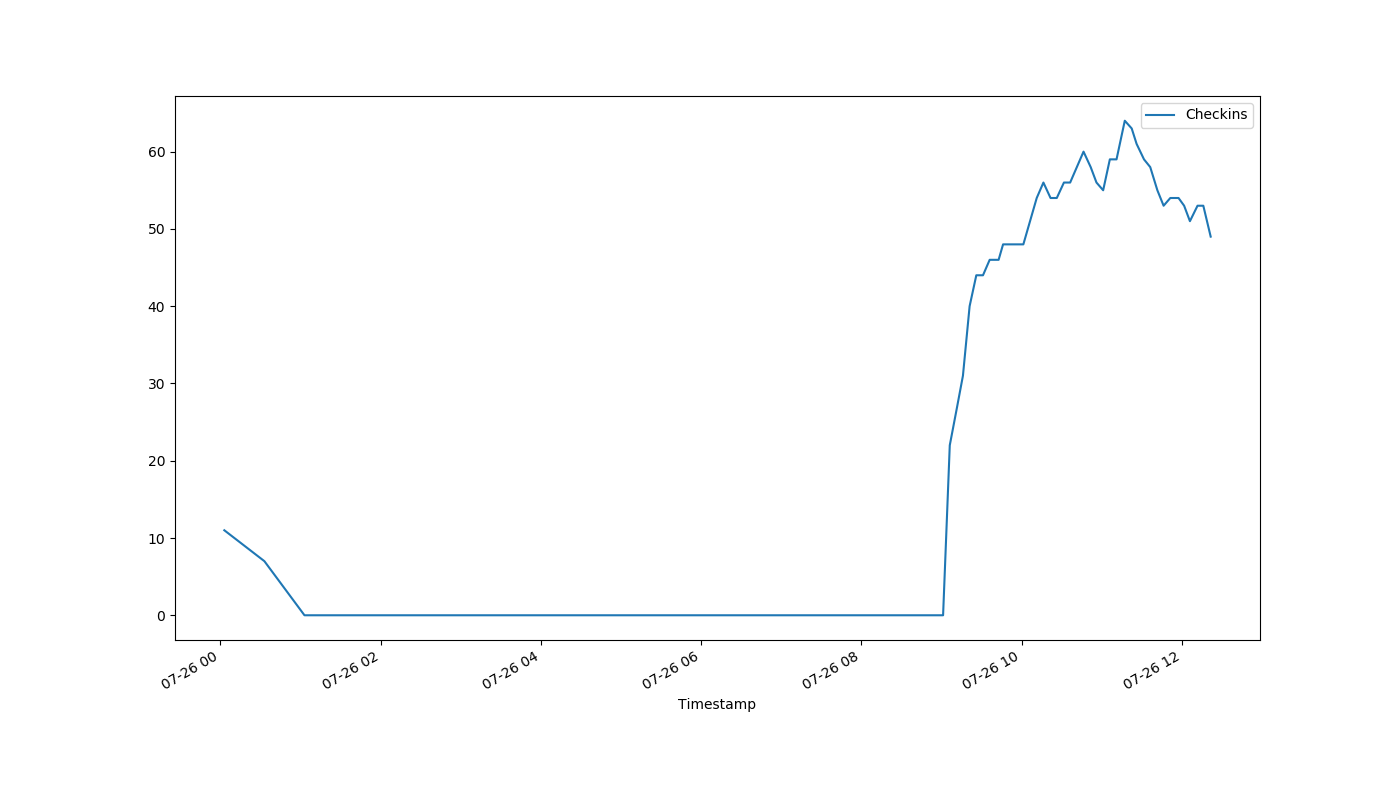
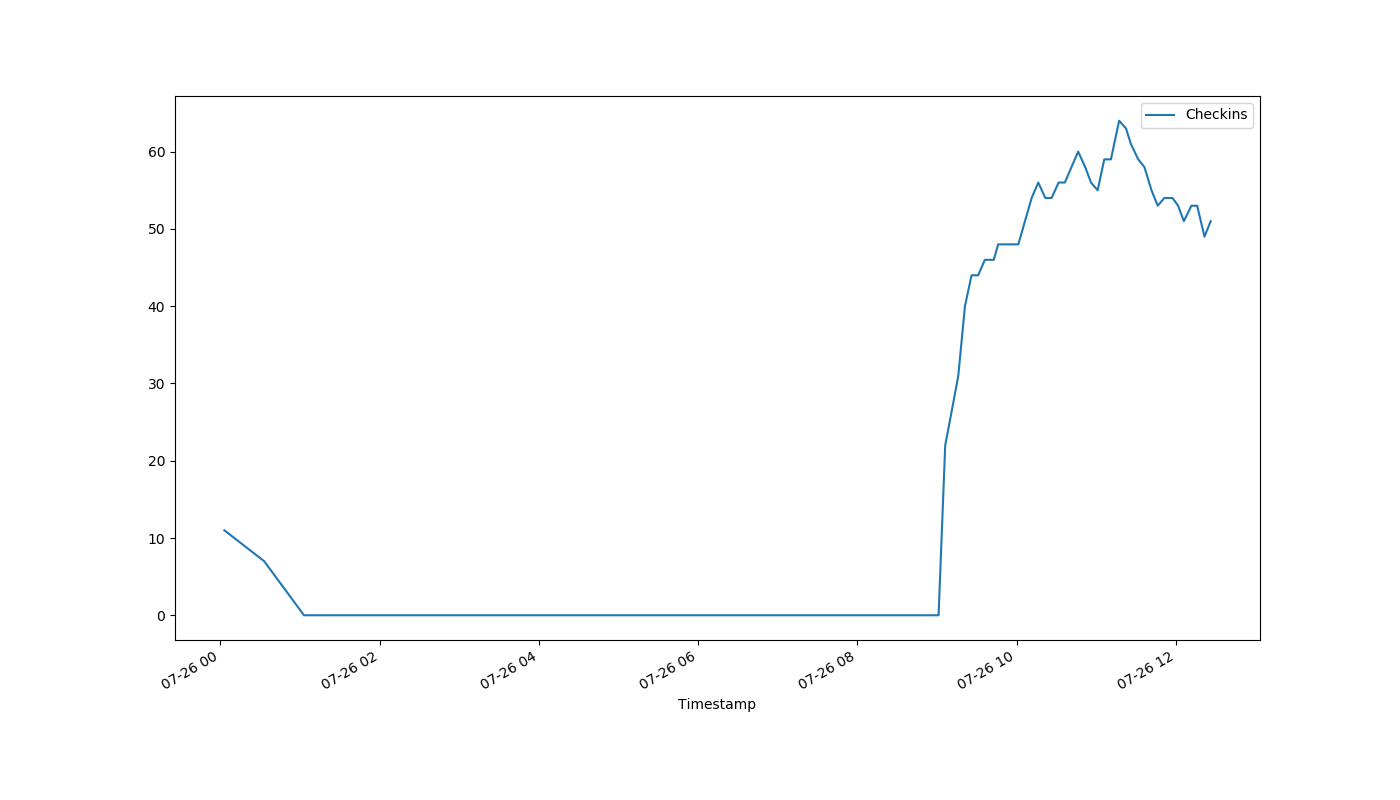
auto-Jul-26-12:28:29

diff --git a/index.html b/index.html
@@ -1,1 +1,1 @@
-<!DOCTYPE html><html><head><meta http-equiv="refresh" content="30"><link rel='stylesheet' href='holmcurrent.css'></head><body><p id='count'>49</p><div id='graph-wrap'><img id='graph' src='holmgraph-Jul-26.png'></div><p id='updated'>Last updated 12:22:01 / 12:21:32</p></body></html>
+<!DOCTYPE html><html><head><meta http-equiv="refresh" content="30"><link rel='stylesheet' href='holmcurrent.css'></head><body><p id='count'>51</p><div id='graph-wrap'><img id='graph' src='holmgraph-Jul-26.png'></div><p id='updated'>Last updated 12:27:01 / 12:26:13</p></body></html>
